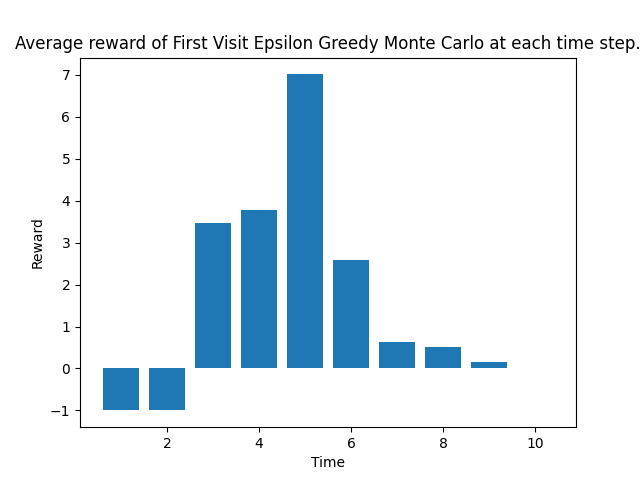
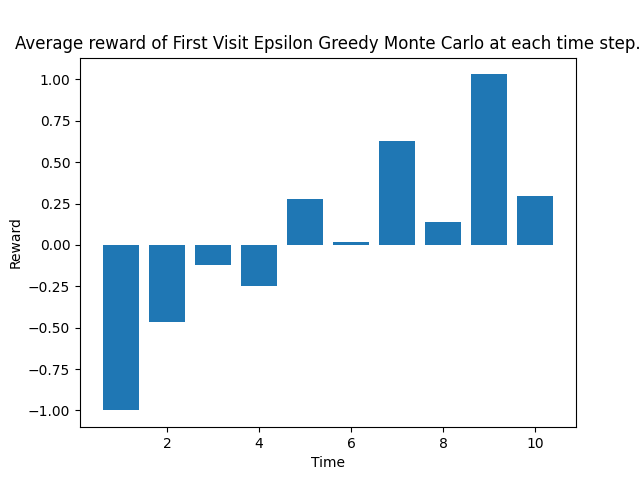
Fixed an issue in monte_carlo_policy.py causing a large inefficient unecessary recursion

diff --git a/src/data_collection.py b/src/data_collection.py
@@ -82,7 +82,7 @@ if __name__ == "__main__":
         gamma=0.9, epsilon=0.3
        )
 
-    plot_rewards_over_time(board, policy_iteration, n_episodes=1000,
+    plot_rewards_over_time(board, monte_carlo, n_episodes=1000,
                            plot_save_path="../plots/r_over_time/monte_carlo_r_over_time.png", options=options,
                            algorithm_name="First Visit Epsilon Greedy Monte Carlo", seed=0)
 
@@ -97,7 +97,7 @@ if __name__ == "__main__":
     q_learning = TemporalDifferencePolicy(board.observation_space, board.action_space, algorithm="QLearning", env=board,
                                           n_episodes=1000, alpha=0.5, gamma=0.9)
 
-    plot_rewards_over_time(board, sarsa, n_episodes=1000,
+    plot_rewards_over_time(board, q_learning, n_episodes=1000,
                            plot_save_path="../plots/r_over_time/q_learning_r_over_time.png", options=options,
                            algorithm_name="Q-Learning", seed=0)
 

diff --git a/src/monte_carlo_policy.py b/src/monte_carlo_policy.py
@@ -43,7 +43,7 @@ class MonteCarloPolicy(Policy):
                 algorithm in self.__class__.MonteCarloAlgorithms
             ), f"ValueError: algorithm must be one of {self.MonteCarloAlgorithms.__members__.keys()}"
 
-            self._policy = self.mc_functions[algorithm](**kwargs)
+            self.mc_functions[algorithm](**kwargs)
 
     def first_visit_monte_carlo_control(self,
                                         env: gym.Env,
